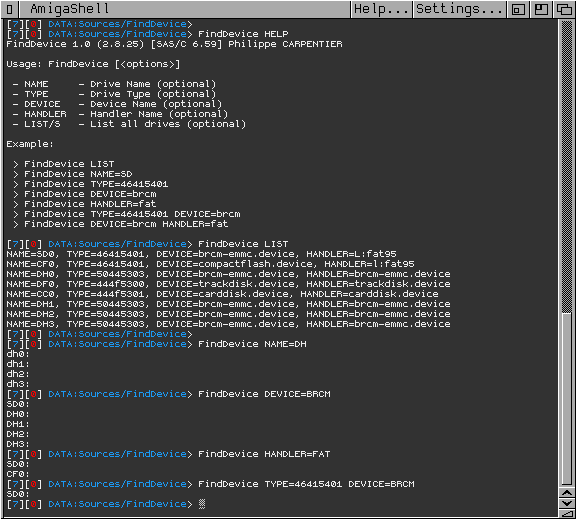
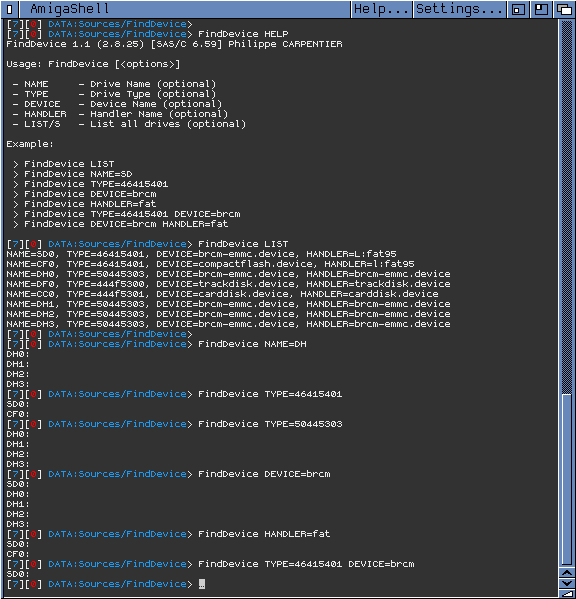
Add files via upload

Changed region(s): [[0.0, 0.0, 1.0, 1.0]]

diff --git a/FindDevice/FindDevice.c b/FindDevice/FindDevice.c
@@ -9,6 +9,7 @@
 #include <stdio.h>
 #include <string.h>
 #include <dos/dos.h>
+#include <dos/dosextens.h>
 #include <dos/filehandler.h>
 #include <exec/exec.h>
 #include <proto/dos.h>
@@ -21,7 +22,7 @@
  *****************************************************************************/
 
 #define APPNAME    "FindDevice"
-#define APPVERSION "1.0"
+#define APPVERSION "1.1"
 #define APPAUTHOR  "Philippe CARPENTIER"
 #define TEMPLATE   "NAME,TYPE,DEVICE,HANDLER,LIST/S,HELP/S"
 #define MAX_PATH   4096
@@ -138,6 +139,9 @@ BOOL FindDevice(STRPTR dosName, STRPTR dosType, STRPTR deviceName, STRPTR handle
 								
 								if (a && b && c && d)
 								{
+									UBYTE byteCount = nameStr[0];
+									strncpy(bufName, &nameStr[1], byteCount);
+									bufName[byteCount] = '\0';
 									PutStr(bufName);
 									PutStr(":\n");
 									result = TRUE;
